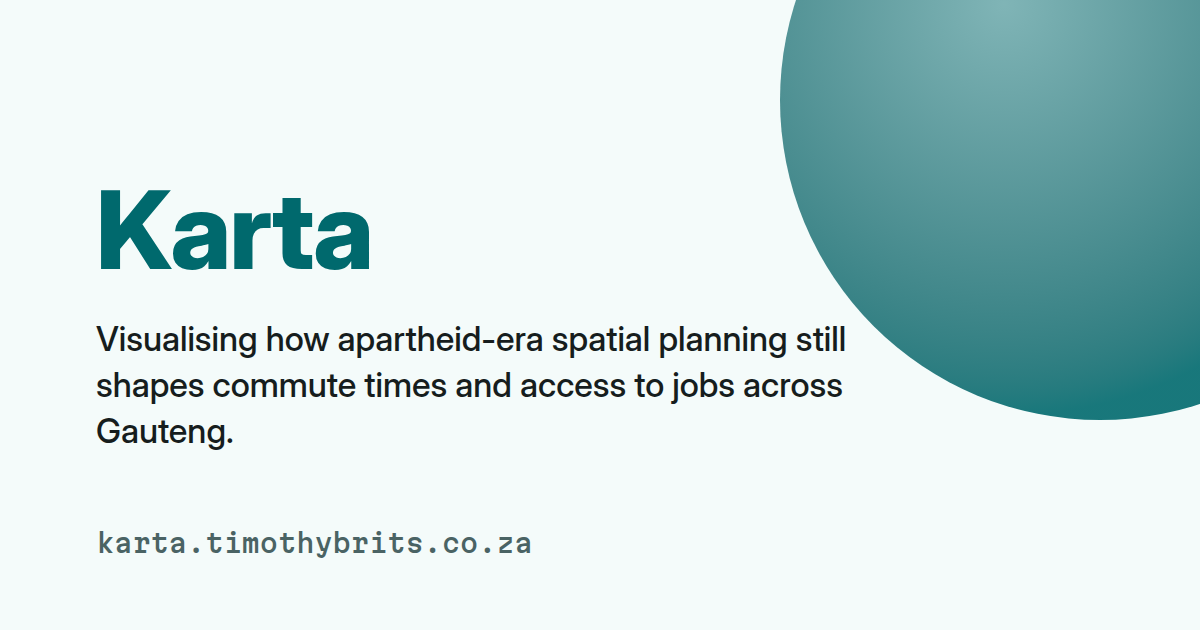
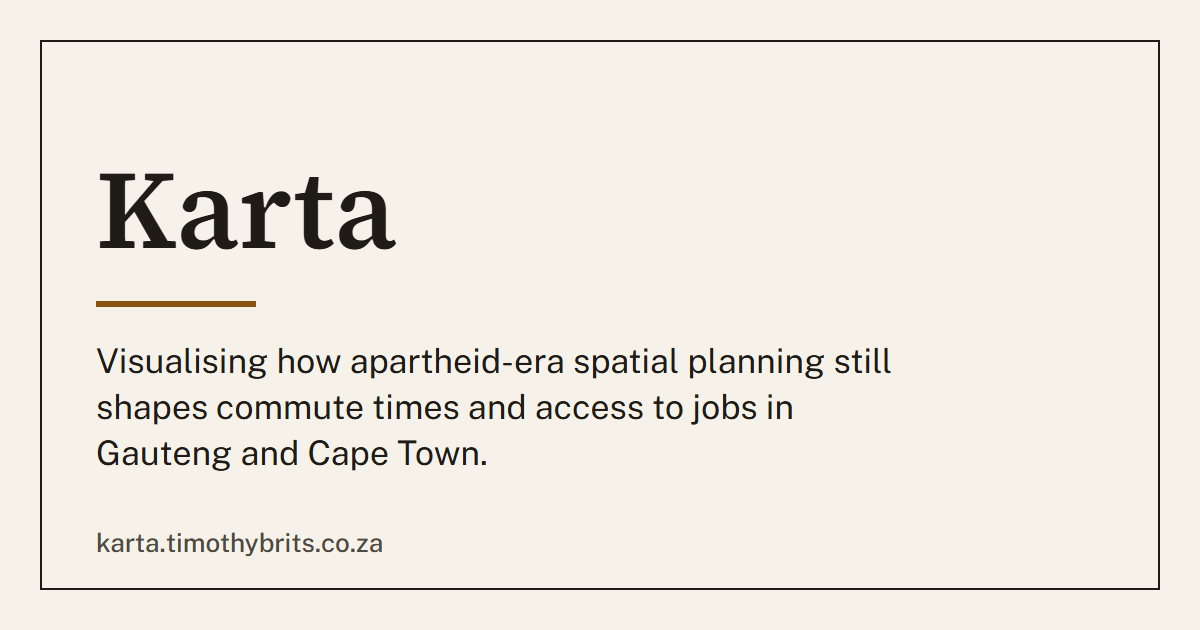
chore(web): regenerate the OG image in the new palette and fonts
Build the font and page URLs with pathToFileURL so the generator also
loads its fonts on Windows.

Changed region(s): [[0.0308, 0.0, 1.0, 0.754], [0.0617, 0.8444, 0.4625, 0.9048]]

diff --git a/packages/web/scripts/generateOgImage.ts b/packages/web/scripts/generateOgImage.ts
@@ -16,7 +16,7 @@
 import { mkdtempSync, readFileSync, rmSync, writeFileSync } from "node:fs";
 import { tmpdir } from "node:os";
 import { join } from "node:path";
-import { fileURLToPath } from "node:url";
+import { fileURLToPath, pathToFileURL } from "node:url";
 import { chromium } from "@playwright/test";
 import {
   OG_IMAGE_HEIGHT,
@@ -81,12 +81,12 @@ const TEMPLATE = `<!doctype html>
 <style>
   @font-face {
     font-family: "Source Serif 4 Variable";
-    src: url("file://${SERIF_FONT_PATH}") format("woff2");
+    src: url("${pathToFileURL(SERIF_FONT_PATH).href}") format("woff2");
     font-weight: 200 900;
   }
   @font-face {
     font-family: "Public Sans Variable";
-    src: url("file://${SANS_FONT_PATH}") format("woff2");
+    src: url("${pathToFileURL(SANS_FONT_PATH).href}") format("woff2");
     font-weight: 100 900;
   }
   * {
@@ -181,7 +181,7 @@ async function generateOgImage(): Promise<void> {
     const page = await browser.newPage({
       viewport: { width: OG_IMAGE_WIDTH, height: OG_IMAGE_HEIGHT },
     });
-    await page.goto(`file://${tempHtmlPath}`);
+    await page.goto(pathToFileURL(tempHtmlPath).href);
     await page.evaluate(() => document.fonts.ready);
     await page.screenshot({ path: OUTPUT_PATH });
   } finally {
